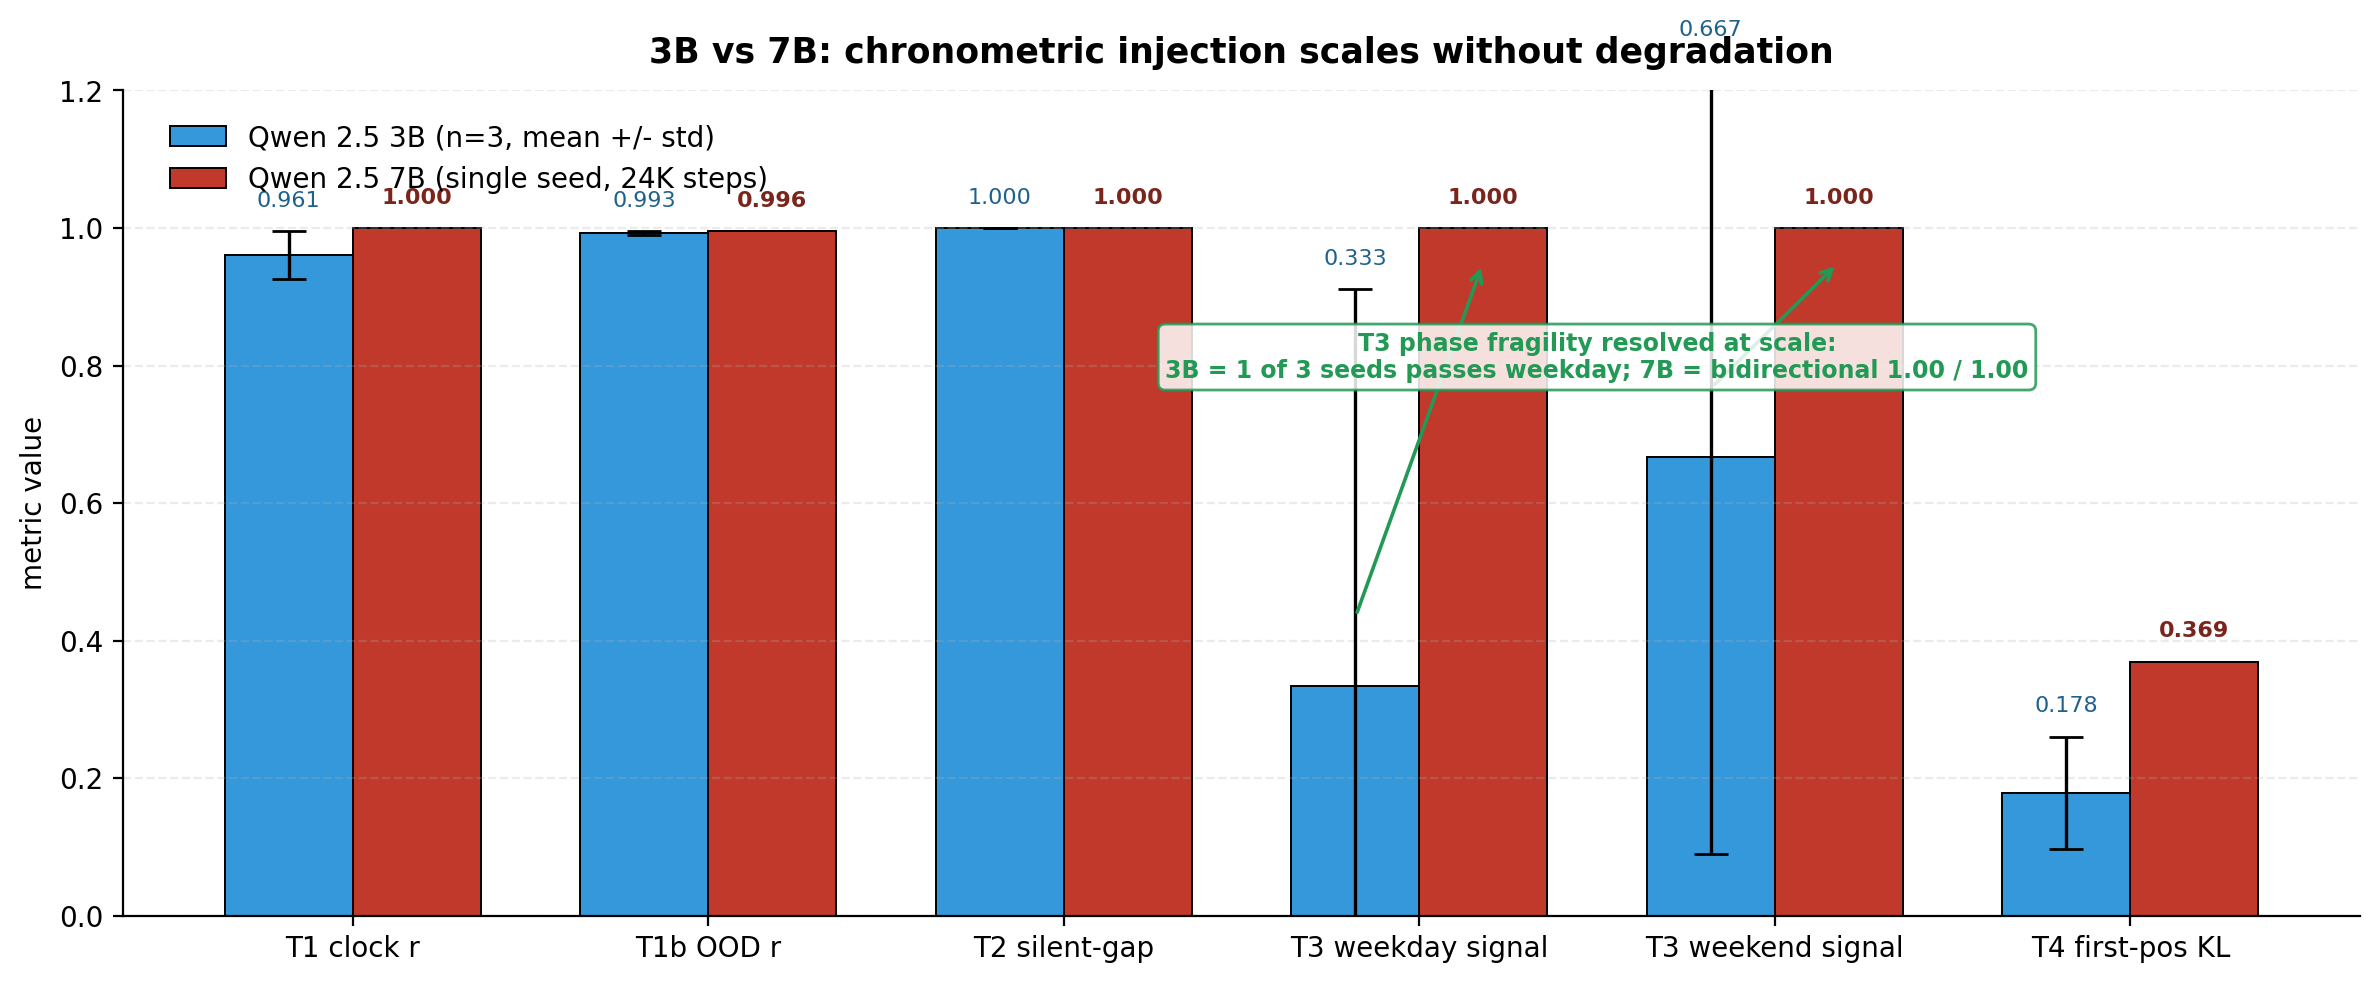
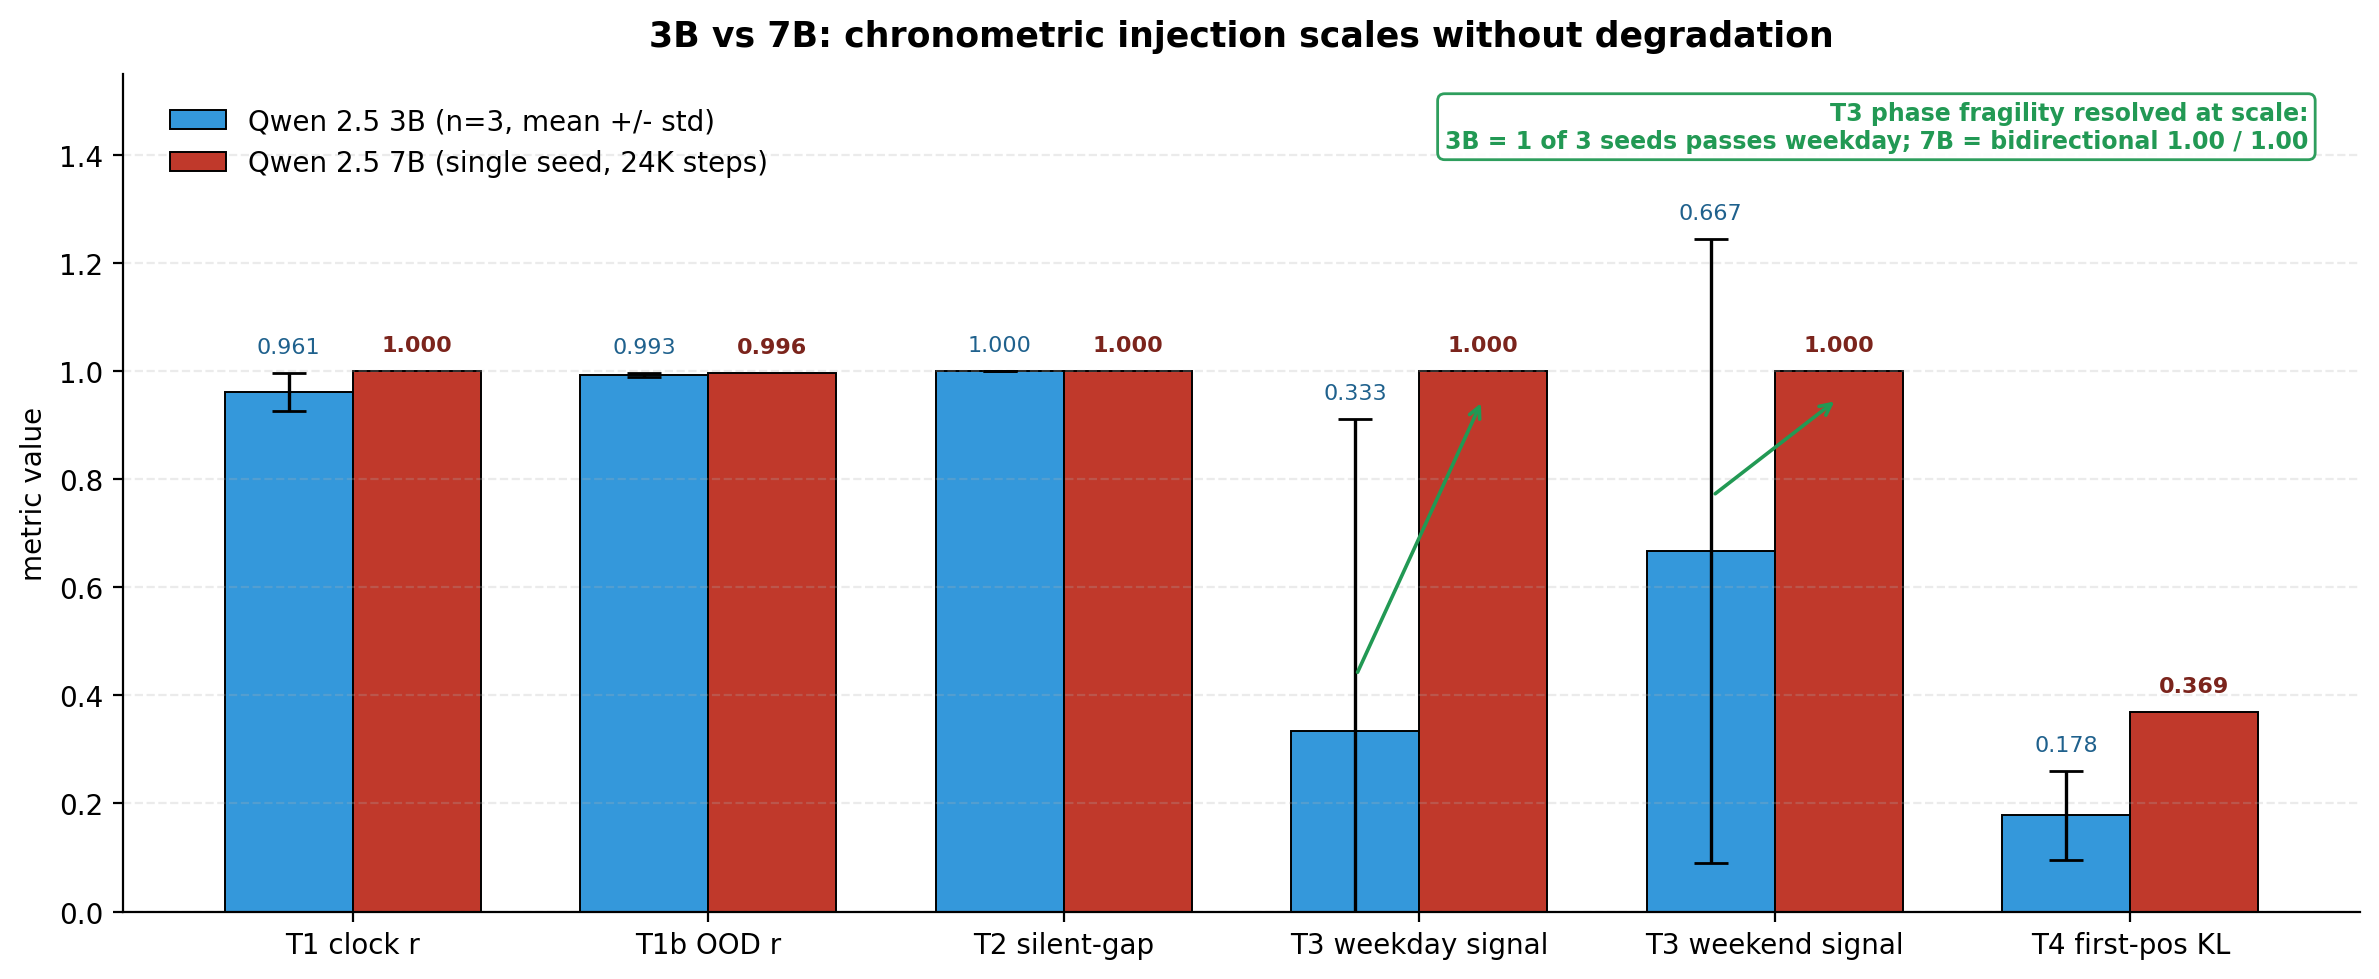
fix(fig10): T3 whiskers fit + annotation cleared of bar columns
Three structural issues:
1. T3 weekday (mean 0.333 +/- 0.577) and T3 weekend (mean 0.667 +/- 0.577)
   whiskers extend above 1.0; old ylim=1.20 clipped the upper whiskers
   and threw the "0.667" label above the title bar.
2. The "T3 phase fragility resolved at scale" annotation was placed at
   (x=3.5, y=0.85), which landed inside the T3 weekday + weekend red bars.
3. Value label y-positions were unbounded -> label rendered above plot
   when whisker exceeded ceiling.

Fixes:
- ylim ceiling raised to 1.55 so whiskers fit without clipping.
- Label y-positions capped at LABEL_CEIL = 1.45.
- Annotation pinned top-right at (len(labels)-0.5, YLIM_TOP-0.05),
  ha="right", clear of all bars and the upper-left legend.

diff --git a/scripts/make_fig10_scaling.py b/scripts/make_fig10_scaling.py
@@ -56,9 +56,13 @@ def main() -> None:
                      color="#c0392b", edgecolor="black", linewidth=0.7,
                      label="Qwen 2.5 7B (single seed, 24K steps)")
 
-    # value labels
+    YLIM_TOP = 1.55
+    LABEL_CEIL = YLIM_TOP - 0.10  # keep labels inside the plot
+
+    # value labels (3B). Clip y to keep inside plot when whiskers exceed ceiling.
     for i, (v, s) in enumerate(zip(m_3b, s_3b)):
-        ax.text(i - w/2, v + s + 0.03, f"{v:.3f}",
+        y = min(v + s + 0.03, LABEL_CEIL)
+        ax.text(i - w/2, y, f"{v:.3f}",
                 ha="center", va="bottom", fontsize=8, color="#1f618d")
     for i, v in enumerate(m_7b):
         ax.text(i + w/2, v + 0.03, f"{v:.3f}",
@@ -79,7 +83,7 @@ def main() -> None:
     ax.set_xticks(x)
     ax.set_xticklabels(labels, fontsize=10)
     ax.set_ylabel("metric value", fontsize=10)
-    ax.set_ylim(0, 1.20)
+    ax.set_ylim(0, YLIM_TOP)
     ax.set_title("3B vs 7B: chronometric injection scales without degradation",
                  fontsize=12.5, fontweight="bold", pad=10)
     ax.grid(axis="y", alpha=0.25, linestyle="--")
@@ -88,14 +92,14 @@ def main() -> None:
     ax.legend(loc="upper left", frameon=False, fontsize=10,
               bbox_to_anchor=(0.01, 0.99))
 
-    # caption below the two T3 columns (inside plot, no overlap with legend)
-    ax.text(3.5, 0.85,
+    # caption pinned top-right inside plot, clear of all bars and whiskers
+    ax.text(len(labels) - 0.5, YLIM_TOP - 0.05,
             "T3 phase fragility resolved at scale:\n"
             "3B = 1 of 3 seeds passes weekday; 7B = bidirectional 1.00 / 1.00",
-            ha="center", va="top", fontsize=8.5, color="#229954",
+            ha="right", va="top", fontsize=8.5, color="#229954",
             fontweight="bold",
             bbox=dict(boxstyle="round,pad=0.3", facecolor="white",
-                      edgecolor="#229954", alpha=0.85))
+                      edgecolor="#229954", alpha=0.95))
 
     fig.tight_layout()
     DST.parent.mkdir(parents=True, exist_ok=True)
